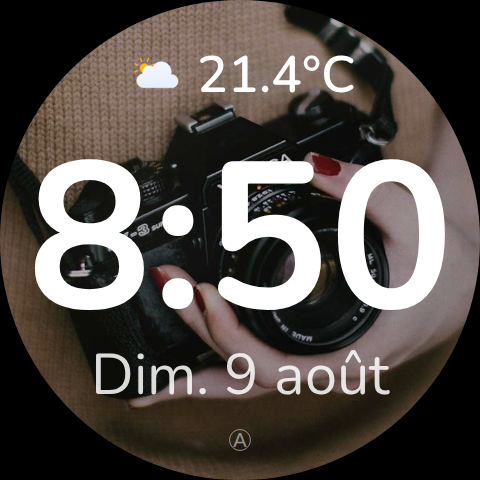
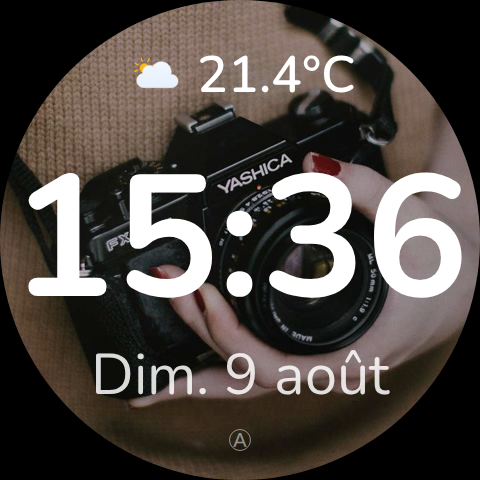
1.2.5: régénère la capture du mode round digital
docs/screenshot-round.png montrait encore l'ancien rendu plein format
de l'horloge, devenu trompeur depuis la 1.2.4 : le mode round cale
maintenant toujours la taille sur le pire cas (heure à deux chiffres),
donc rendu réellement plus petit que la capture existante. Mode large
inchangé (toujours à l'échelle 1 pour une heure normale), pas de
capture à refaire de ce côté.

Changed region(s): [[0.0625, 0.3125, 0.9688, 0.6562], [0.2812, 0.125, 0.3125, 0.1562]]

diff --git a/CHANGELOG.md b/CHANGELOG.md
@@ -1,5 +1,15 @@
 # Changelog
 
+## 1.2.5
+
+- `docs/screenshot-round.png` régénérée : la 1.2.4 a changé la taille
+  réellement rendue de l'horloge en mode round (toujours calée sur le
+  pire cas désormais, cf. 1.2.4), rendant la capture existante
+  trompeuse — elle montrait encore l'ancien rendu plein format d'avant
+  ce correctif. Repéré en le demandant explicitement plutôt qu'au
+  hasard. Mode large (paysage) inchangé (toujours à l'échelle 1 pour une
+  heure normale), pas besoin d'y toucher.
+
 ## 1.2.4
 
 - Corrigé : l'heure et la date changeaient de taille visible selon le
